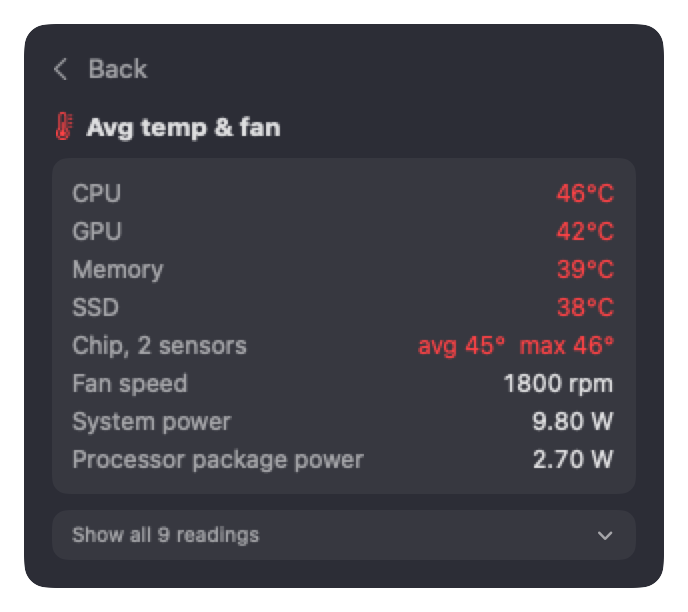
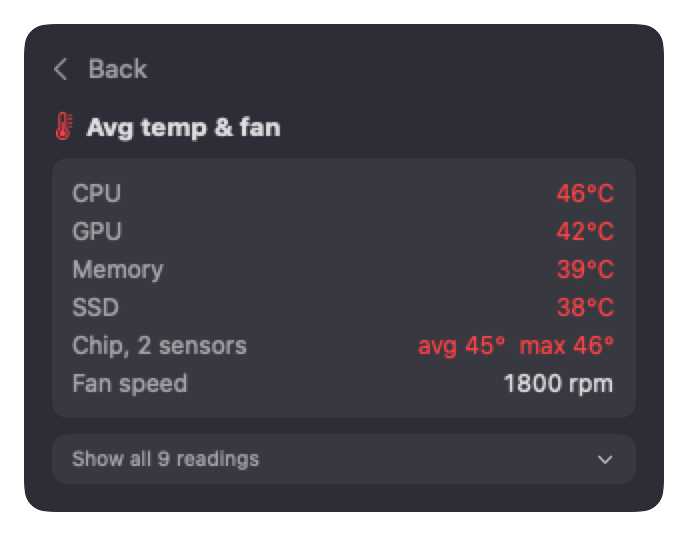
Power tile opens a Power page; power readings moved out of the sensors page

diff --git a/Sources/SystemMonitorApp/PanelView.swift b/Sources/SystemMonitorApp/PanelView.swift
@@ -66,7 +66,7 @@ struct PanelView: View {
 
     private static let tileOrder: [MonitorItem] = [.cpu, .gpu, .memory, .network, .power, .thermal, .drives, .disk, .devices]
     /// Only these have more to show than their tile: cores and sensors, and the memory breakdown.
-    private static let pageItems: Set<MonitorItem> = [.cpu, .gpu, .memory, .network, .thermal, .devices]
+    private static let pageItems: Set<MonitorItem> = [.cpu, .gpu, .memory, .network, .power, .thermal, .devices]
 
     private var mainPanel: some View {
         let visible = visibleSections
@@ -260,6 +260,7 @@ struct PanelView: View {
         switch item {
         case .memory: memorySection
         case .network: networkSection
+        case .power: powerSection
         case .thermal: sensorsSection
         case .devices: devicesSection
         case .cpu: percentSection(.cpu, value: monitor.cpu,
@@ -356,7 +357,6 @@ struct PanelView: View {
             key.append(("Chip, \(dies.count) sensors", "avg \(settings.temperature(dies.average, symbol: false))  max \(settings.temperature(dies.maximum, symbol: false))", .red))
         }
         for fan in readings.filter({ $0.kind == .fan && $0.name == "Fan speed" }) { key.append((fan.name, sensorText(fan), .primary)) }
-        for power in readings.filter({ $0.kind == .power && SensorsCollector.isKnown($0.name) }) { key.append((power.name, sensorText(power), .primary)) }
         return VStack(alignment: .leading, spacing: 8) {
             header(.thermal)
             if readings.isEmpty { Text("Waiting for data").foregroundStyle(.secondary) }
@@ -459,6 +459,43 @@ struct PanelView: View {
             Image(nsImage: NSWorkspace.shared.icon(forFile: path)).resizable()
         } else {
             Image(systemName: "terminal").font(.system(size: 11)).foregroundStyle(.secondary)
+        }
+    }
+
+    // MARK: Power
+
+    /// Power page: the system's draw over time, then where it comes from and goes.
+    private var powerSection: some View {
+        let known = monitor.sensors.filter { $0.kind == .power && SensorsCollector.isKnown($0.name) }
+        return VStack(alignment: .leading, spacing: 8) {
+            HStack {
+                header(.power)
+                Spacer()
+                Text(monitor.power?.systemWatts.map { String(format: "%.1f W", $0) } ?? "n/a").monospacedDigit()
+            }
+            HistoryChart(values: zoomed(monitor.powerHistory, minSpan: 2, floor: 0, padding: 0.5), color: MonitorItem.power.color,
+                         scrub: scrub(monitor.powerHistory) { String(format: "%.1f W", $0) }).frame(height: 40)
+            VStack(spacing: 4) {
+                ForEach(known.indices, id: \.self) { i in
+                    HStack {
+                        Text(known[i].name).foregroundStyle(.secondary)
+                        Spacer(minLength: 6)
+                        Text(sensorText(known[i])).monospacedDigit()
+                    }
+                    .font(.system(size: 12))
+                }
+                if let gpu = monitor.power?.gpuWatts {
+                    HStack {
+                        Text("GPU").foregroundStyle(.secondary)
+                        Spacer(minLength: 6)
+                        Text(String(format: "%.2f W", gpu)).monospacedDigit()
+                    }
+                    .font(.system(size: 12))
+                }
+            }
+            .padding(10)
+            .frame(maxWidth: .infinity, alignment: .leading)
+            .background(Color.primary.opacity(0.06), in: RoundedRectangle(cornerRadius: 8))
         }
     }
 

diff --git a/Sources/SystemMonitorApp/Settings.swift b/Sources/SystemMonitorApp/Settings.swift
@@ -84,7 +84,7 @@ final class Settings: ObservableObject {
     var gpuDetailVisible: Bool { openDetail == .gpu }
     /// The busiest-apps lists are only read while the CPU or Memory page is open.
     /// The all-sensors list is only read while its page is open.
-    var sensorsVisible: Bool { openDetail == .thermal }
+    var sensorsVisible: Bool { openDetail == .thermal || openDetail == .power }
     var processesVisible: Bool { openDetail == .cpu || openDetail == .memory }
 
     /// Temperature unit. Readings are always collected in °C and converted when shown.

diff --git a/Sources/SystemMonitorApp/ScreenshotMode.swift b/Sources/SystemMonitorApp/ScreenshotMode.swift
@@ -36,6 +36,8 @@ enum ScreenshotMode {
         renderPanel(PanelView(monitor: monitor), to: "\(outputDir)/panel-cpu.png")
         monitor.settings.openDetail = .gpu
         renderPanel(PanelView(monitor: monitor), to: "\(outputDir)/panel-gpu.png")
+        monitor.settings.openDetail = .power
+        renderPanel(PanelView(monitor: monitor), to: "\(outputDir)/panel-power.png")
         monitor.settings.openDetail = .thermal
         renderPanel(PanelView(monitor: monitor), to: "\(outputDir)/panel-sensors.png")
         monitor.settings.openDetail = .devices

diff --git a/CHANGELOG.md b/CHANGELOG.md
@@ -16,7 +16,7 @@ More in this release
 - Drives show free space on the tile, and a red "SMART" warning if macOS reports a drive failing.
 - Batteries: the Mac's own battery on laptops and connected Bluetooth devices (AirPods, mouse, keyboard) in one strip with an arrow; click it for a page with a bar for every part (left, right, case).
 - Busiest apps by CPU on the CPU page and by memory on the Memory page (read only while that page is open): readable names, helper processes added to their app, the app icon and a bar.
-- Sensors page (click the Avg temp tile): CPU, GPU, memory and SSD temperatures, the chip sensors as one line (average and highest), fans and power, with every reading one click away; and a warning when macOS is throttling.
+- Sensors page (click the Avg temp tile): CPU, GPU, memory and SSD temperatures, the chip sensors as one line (average and highest), fans and power, with every reading one click away; and a warning when macOS is throttling. The Power tile opens a Power page: draw over time, power adapter in, processor package power and GPU.
 - Menu bar: Names or Icons, with red temperatures and steady widths so the bar does not bounce. The Display settings are three rows: Temperatures, Panel (Grid or Rows) and Menu bar.
 - Graph hover: hover a graph on a page to see the exact value and how long ago.
 - Settings: type what Activity Monitor shows and "Calibrate" corrects Memory used for that Mac (Reset undoes it). Batteries also reads Bluetooth LE keyboards such as the Logitech MX Keys and Logitech mice on a USB receiver (HID++) while the Batteries item is on; macOS may ask for Bluetooth or input access once.
